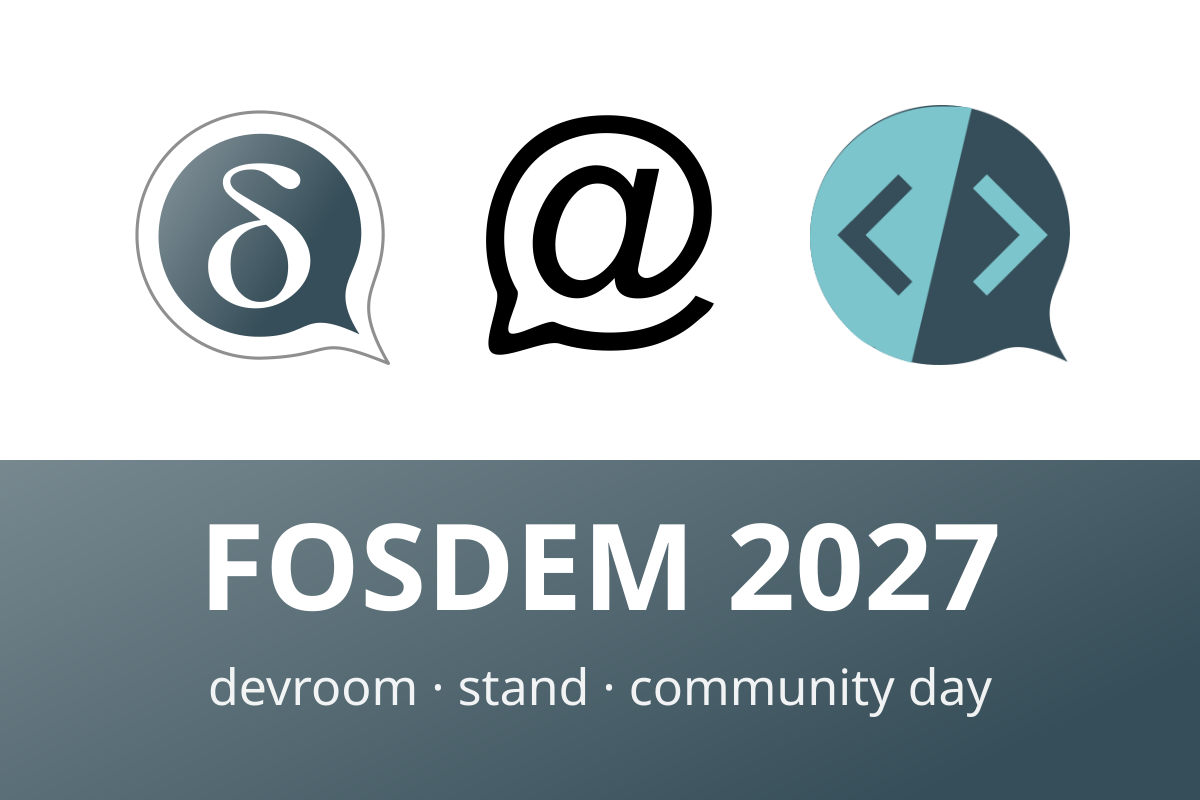
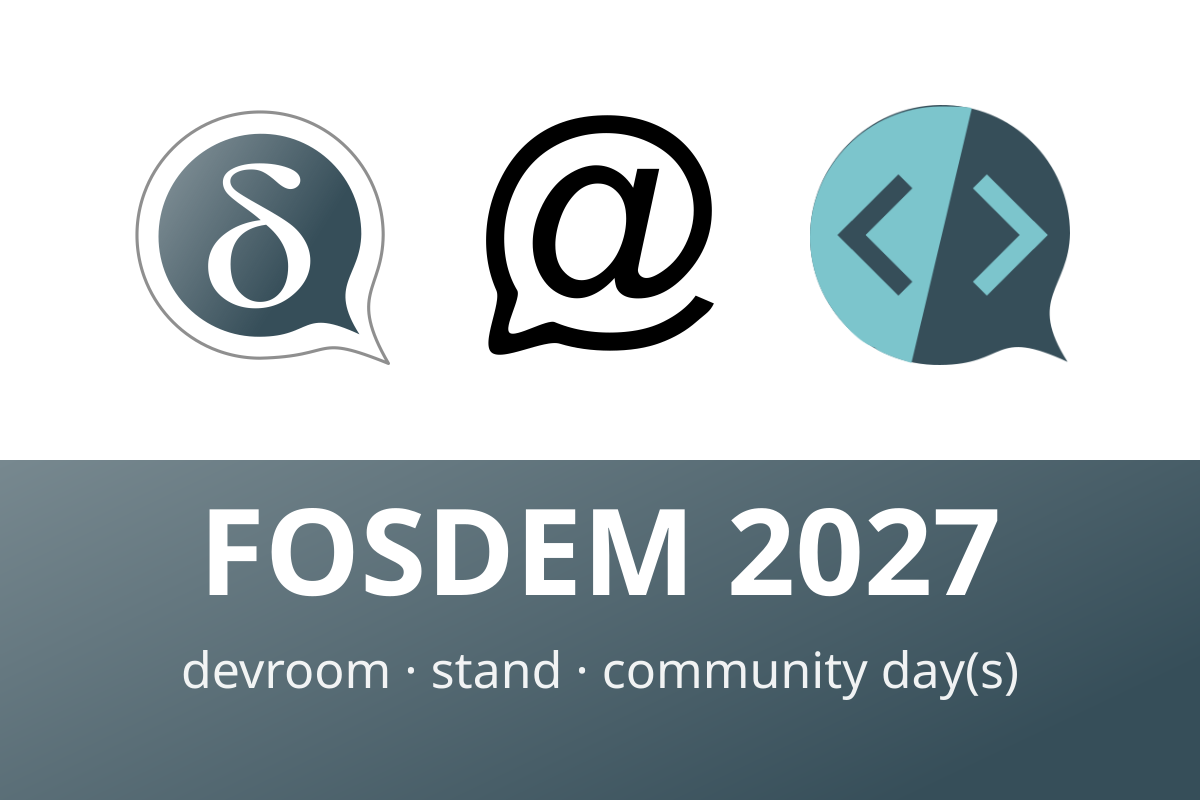
several text refinements and showing a photo roll from existing published images

diff --git a/_posts/2026-11-10-fosdem27-and-community-days.md b/_posts/2026-11-10-fosdem27-and-community-days.md
@@ -4,11 +4,12 @@ author: "Delta Chat team"
 image: ../assets/blog/2026-11-10-fosdem27.png
 ---
 
-<img src="../assets/blog/2026-11-10-fosdem27.png" alt="Delta Chat, chatmail and webxdc logos above the words FOSDEM 2027: devroom, stand, community day" style="width:280px; float:right; clear:both; margin-left:1em; margin-bottom:.5em;" />
+<a href="../assets/blog/2026-11-10-fosdem27.png"><img src="../assets/blog/2026-11-10-fosdem27.png" alt="Delta Chat, chatmail and webxdc logos above the words FOSDEM 2027: devroom, stand, community day(s)" style="width:280px; float:right; clear:both; margin-left:1em; margin-bottom:.5em;" /></a>
 **Calling chatmail, Delta Chat and webxdc hackers and communities!**
 FOSDEM happens in Brussels on 30 and 31 January 2027,
-and together with our friends from [XMPP](https://xmpp.org) and [Matrix](https://matrix.org)
-we are co-organizing the [Decentralised Messaging devroom on SUNDAY](https://xmpp.org/2026/10/fosdem-2027-decentralised-messaging-devroom/).
+and together with our friends from XMPP and Matrix
+we are co-organizing the [Decentralised Messaging devroom on SUNDAY](https://lists.fosdem.org/hyperkitty/list/fosdem@lists.fosdem.org/thread/DB5STPFXLG25PIVQNEJ4CRHCFKNJP434/)
+(see also the [XMPP blog post](https://xmpp.org/2026/10/fosdem-2027-decentralised-messaging-devroom/)).
 
 If you hack on [chatmail relays](https://chatmail.at/relays),
 [the growing number of chatmail clients](https://chatmail.at/clients),
@@ -17,10 +18,10 @@ or research decentralized messaging or just use things in your communities,
 please consider submitting a talk:
 Share something others can learn from rather than a product pitch,
 in a 25 minute slot or a 5 to 10 minute lightning talk.
-**The deadline is Friday, 20 November, 23:55 UTC,**
-so head over to [FOSDEM pretalx submission](https://fosdem.org/submit) soon.
 
-<img src="../assets/blog/stickers.jpeg" alt="Rolls of Delta Chat stickers on a wooden board" style="width:130px; height:185px; object-fit:cover; float:left; margin-right:1em; margin-bottom:.3em;" />
+**Submission deadline is Friday, 20 November, 23:55 UTC on [FOSDEM pretalx](https://fosdem.org/submit) soon**.
+
+<a href="../assets/blog/stickers.jpeg"><img src="../assets/blog/stickers.jpeg" alt="Rolls of Delta Chat stickers on a wooden board" style="width:130px; height:185px; object-fit:cover; float:left; margin-right:1em; margin-bottom:.3em;" /></a>
 **Meet us at our stand.**
 We also have a confirmed Delta Chat stand at FOSDEM (location to be announced).
 Expect fresh stickers and some of the people behind Delta Chat, chatmail relays and webxdc.
@@ -28,17 +29,54 @@ Drop by with your questions, ideas and bug reports,
 try out mini-apps together,
 or bring your phone and leave with a few new contacts,
 made the way we like it best: by personally scanning each other's QR codes,
-and getting to know new circles in a peer-to-peer manner.
+and getting to know new circles in a people-to-people manner.
+
+<style>
+.community-fade { position: relative; width: 240px; height: 180px; float: right; clear: both; margin: 0 0 .3em 1em; overflow: hidden; }
+.community-fade a { position: absolute; top: 0; left: 0; width: 100%; height: 100%; opacity: 0; visibility: hidden; animation: community-fade 50.05s linear infinite; }
+.community-fade img { width: 100%; height: 100%; object-fit: cover; }
+.community-fade a:nth-child(1) { animation-delay: -1.15s; }
+.community-fade a:nth-child(2) { animation-delay: 2.70s; }
+.community-fade a:nth-child(3) { animation-delay: 6.55s; }
+.community-fade a:nth-child(4) { animation-delay: 10.40s; }
+.community-fade a:nth-child(5) { animation-delay: 14.25s; }
+.community-fade a:nth-child(6) { animation-delay: 18.10s; }
+.community-fade a:nth-child(7) { animation-delay: 21.95s; }
+.community-fade a:nth-child(8) { animation-delay: 25.80s; }
+.community-fade a:nth-child(9) { animation-delay: 29.65s; }
+.community-fade a:nth-child(10) { animation-delay: 33.50s; }
+.community-fade a:nth-child(11) { animation-delay: 37.35s; }
+.community-fade a:nth-child(12) { animation-delay: 41.20s; }
+.community-fade a:nth-child(13) { animation-delay: 45.05s; }
+@keyframes community-fade { 0% { opacity: 0; visibility: hidden; } 2.30% { opacity: 1; visibility: visible; } 7.69% { opacity: 1; visibility: visible; } 10.00% { opacity: 0; visibility: hidden; } 100% { opacity: 0; visibility: hidden; } }
+@media (prefers-reduced-motion: reduce) { .community-fade a { animation: none; } .community-fade a:first-child { opacity: 1; visibility: visible; } }
+@media only screen and (max-width: 640px) { .community-fade { float: none; margin: 0 0 1em 0; } }
+</style>
+
+<div class="community-fade">
+<a href="../assets/blog/20191021-delta-chat-etc-workshop-group-photo.jpg"><img src="../assets/blog/20191021-delta-chat-etc-workshop-group-photo.jpg" width="240" height="180" alt="Group photo of 19 people at the 2019 Eclectic Tech Carnival in Athens, where we held Delta Chat workshops" title="/ETC 2019 in Athens (Photo: /ETC)" /></a>
+<a href="../assets/blog/xi-unconf.jpg"><img src="../assets/blog/xi-unconf.jpg" width="240" height="180" loading="lazy" alt="A full room listening to a talk at the Delta XI unconference in Kyiv, 2018" /></a>
+<a href="../assets/blog/xyiv-devs-pretest.gif"><img src="../assets/blog/xyiv-devs-pretest.gif" width="240" height="180" loading="lazy" style="object-position: 50% 35%;" alt="Developers in a Kyiv street preparing location streaming for Android, 2019" /></a>
+<a href="../assets/blog/xi-party1.jpg"><img src="../assets/blog/xi-party1.jpg" width="240" height="180" loading="lazy" style="object-position: 50% 20%;" alt="Two people at the Delta XI party in Kyiv, 2018" /></a>
+<a href="../assets/blog/xyiv-heart-of-code.jpg"><img src="../assets/blog/xyiv-heart-of-code.jpg" width="240" height="180" loading="lazy" style="object-position: 5% 50%;" alt="A slide about the Heart of Code hackerspace at the Xyiv unconference in Kyiv, 2019" /></a>
+<a href="../assets/blog/xi-activist.jpg"><img src="../assets/blog/xi-activist.jpg" width="240" height="180" loading="lazy" alt="Someone holding a delta.chat sticker in front of their face at Delta XI in Kyiv, 2018" /></a>
+<a href="../assets/blog/2021-11-13-delta-cat.jpg"><img src="../assets/blog/2021-11-13-delta-cat.jpg" width="240" height="180" loading="lazy" alt="A black and white cat in a box with a delta.chat sticker" /></a>
+<a href="../assets/blog/xyiv-desktop1.gif"><img src="../assets/blog/xyiv-desktop1.gif" width="240" height="180" loading="lazy" style="object-position: 50% 20%;" alt="Developers on a couch with laptops, working on Delta Chat Desktop in Kyiv, 2019" /></a>
+<a href="../assets/blog/xi-xenia.jpg"><img src="../assets/blog/xi-xenia.jpg" width="240" height="180" loading="lazy" alt="A performance in front of a projection at a Delta Chat party" /></a>
+<a href="../assets/blog/dc-uxreport1-small.png"><img src="../assets/blog/dc-uxreport1-small.png" width="240" height="180" loading="lazy" alt="People around a table during the first Delta Chat UX testing in Kyiv" /></a>
+<a href="../assets/blog/xi-party3.jpg"><img src="../assets/blog/xi-party3.jpg" width="240" height="180" loading="lazy" style="object-position: 50% 15%;" alt="Someone in a monster mask at the Delta XI party in Kyiv, 2018" /></a>
+<a href="../assets/blog/2020-03-31-needfinding_frontpage.png"><img src="../assets/blog/2020-03-31-needfinding_frontpage.png" width="240" height="180" loading="lazy" style="object-position: 50% 45%;" alt="Cover of the 2020 Delta Chat needfinding report on multi-tool contexts, with a photo of a protester holding up a phone" /></a>
+<a href="../assets/blog/2022-12-ux-studies.jpg"><img src="../assets/blog/2022-12-ux-studies.jpg" width="240" height="180" loading="lazy" alt="Delta Chat testers sitting on the ground, scanning printed QR codes with their phones" /></a>
+</div>
 
 **Save the date: Delta Chat Community Day(s) right after FOSDEM.**
 The devroom has only so many slots and the FOSDEM weekend is always too short,
-so starting on Monday, 1 February 2027,
-we invite everyone to Delta Chat Community Day(s)
-for talks, workshops and hanging out across our user and contributor communities.
+so starting on **Monday, 1 February 2027, we invite everyone to Delta Chat Community Day(s)**
+for talks, sessions and hanging out across our user and contributor communities.
 Anyone who submits a talk to the devroom and does not get a slot
-might just do a session on Monday instead.
-Speaking of which: we have not really looked for a location yet,
-so if you know a good space with room for a little crowd, with some technical and preferably also kitchen infra,
-please tell us at [delta@merlinux.eu](mailto:delta@merlinux.eu)
-or DM on the fediverse at [@delta@chaos.social](https://chaos.social/@delta).
-More details when we have them :)
+can thus just do a session on Monday instead 💜
+Speaking of which: we have not actually looked for a location yet,
+so if you know a good place with room for a little crowd, with some technical and preferably also kitchen infra,
+please be so kind to tell us at [delta@merlinux.eu](mailto:delta@merlinux.eu)
+or DM us on the fediverse at [@delta@chaos.social](https://chaos.social/@delta).
+For everybody else: more details when we have them :)
